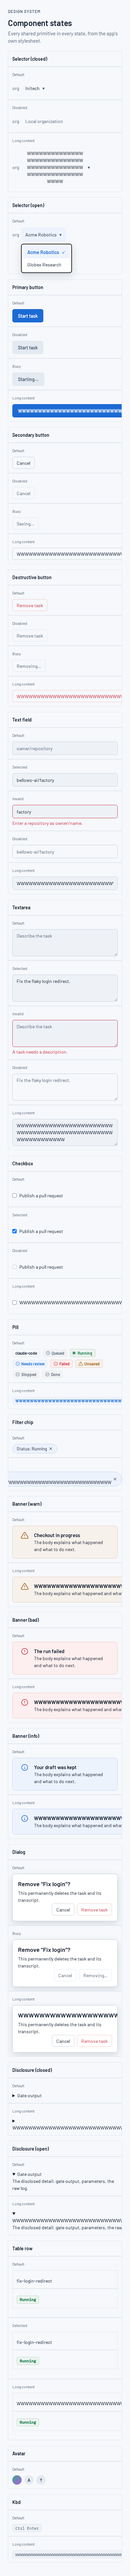
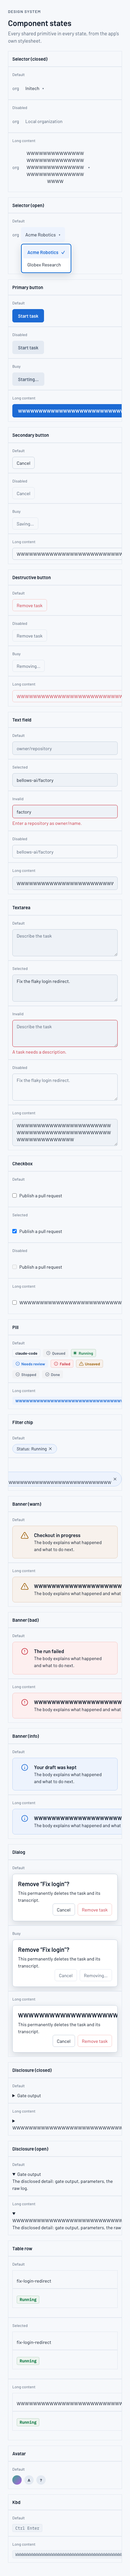
Give every button a held-down skin (#350)
Issue 265 asks for two things: a pointer cursor, and a button that looks
different while it is being clicked. The cursor was already there, and so
were the busy and disabled states — a primary swaps its label to
"Starting…" and dims until the work returns. What no button had was a
press: hover, focus and disabled were the whole vocabulary, so between
mousedown and the first repaint of the result nothing acknowledged the
click.

Each button now takes a skin one step past its hover, in the same
direction, and instantly — the stylesheet carries no transitions and this
adds none. `--accent-pressed` and `--surface-pressed` are the two new
tokens; both are mixed toward `--ink`, which is the direction that raises
the contrast of the text they carry rather than lowering it.

The destructive button is the exception: it moves its EDGE to full
`--lamp-stop` and keeps the hover wash, because a stronger red fill puts
its own red text under 4.5:1 — 4.38 measured at 18% against the hover's
4.68 at 14%.

polish.spec measures both new pairs (9.2:1 and 6.0:1 dark, 8.7:1 and
8.7:1 light), and the specimen shoots each button held down under a real
pointer, the way it already shoots hover and focus. The four committed
sheets are regenerated.

diff --git a/e2e/specimen.spec.ts b/e2e/specimen.spec.ts
@@ -28,13 +28,33 @@ interface Target {
     hover: (cell: Locator) => Locator;
     /** Whether Tab reaches it — a table row is hovered, never focused. */
     focusable: boolean;
+    /** Whether holding the pointer down on it has a skin of its own (issue 265). */
+    pressable?: boolean;
 }
 
 const TARGETS: Target[] = [
     { name: 'selector', row: 'Selector (closed)', hover: (c) => c.getByRole('button'), focusable: true },
-    { name: 'primary-button', row: 'Primary button', hover: (c) => c.getByRole('button'), focusable: true },
-    { name: 'secondary-button', row: 'Secondary button', hover: (c) => c.getByRole('button'), focusable: true },
-    { name: 'destructive-button', row: 'Destructive button', hover: (c) => c.getByRole('button'), focusable: true },
+    {
+        name: 'primary-button',
+        row: 'Primary button',
+        hover: (c) => c.getByRole('button'),
+        focusable: true,
+        pressable: true,
+    },
+    {
+        name: 'secondary-button',
+        row: 'Secondary button',
+        hover: (c) => c.getByRole('button'),
+        focusable: true,
+        pressable: true,
+    },
+    {
+        name: 'destructive-button',
+        row: 'Destructive button',
+        hover: (c) => c.getByRole('button'),
+        focusable: true,
+        pressable: true,
+    },
     { name: 'field', row: 'Text field', hover: (c) => c.getByRole('textbox'), focusable: true },
     { name: 'textarea', row: 'Textarea', hover: (c) => c.getByRole('textbox'), focusable: true },
     { name: 'checkbox', row: 'Checkbox', hover: (c) => c.getByRole('checkbox'), focusable: true },
@@ -81,6 +101,15 @@ test.describe('component-state specimen', () => {
                     await home.screenshot({
                         path: `${STATES_OUT}/${target.name}-hover-${theme}-${viewport.width}.png`,
                     });
+                    // Held down (issue 265), with the button actually under the pointer: :active is
+                    // the browser's own, never a class, so the shot has to keep the press open.
+                    if (target.pressable === true) {
+                        await page.mouse.down();
+                        await home.screenshot({
+                            path: `${STATES_OUT}/${target.name}-pressed-${theme}-${viewport.width}.png`,
+                        });
+                        await page.mouse.up();
+                    }
                 }
                 await page.mouse.move(0, 0);
 

diff --git a/web/src/styles/tokens.css b/web/src/styles/tokens.css
@@ -43,6 +43,10 @@
     --bad-wash: color-mix(in oklab, var(--lamp-stop) 14%, transparent);
     --done-wash: color-mix(in oklab, var(--lamp-done) 10%, transparent);
     --accent-hover: color-mix(in oklab, var(--accent) 88%, var(--ink));
+    /* Held down (issue 265): one step past hover, in the same direction, so a press reads as a
+       press and not as a second hover. No transition carries it — the change is instant. */
+    --accent-pressed: color-mix(in oklab, var(--accent) 60%, var(--ink));
+    --surface-pressed: color-mix(in oklab, var(--surface-strong) 76%, var(--ink));
     --accent-border: color-mix(in oklab, var(--accent) 30%, var(--surface-raised));
     --ok-border: color-mix(in oklab, var(--lamp-run) 30%, var(--surface-raised));
     --warn-border: color-mix(in oklab, var(--lamp-wait) 30%, var(--surface-raised));
@@ -96,6 +100,10 @@
     --bad-wash: color-mix(in oklab, var(--lamp-stop) 8%, var(--surface-raised));
     --done-wash: color-mix(in oklab, var(--lamp-done) 8%, var(--surface-raised));
     --accent-hover: color-mix(in oklab, var(--accent) 88%, var(--ink));
+    /* Held down (issue 265): one step past hover, in the same direction, so a press reads as a
+       press and not as a second hover. No transition carries it — the change is instant. */
+    --accent-pressed: color-mix(in oklab, var(--accent) 60%, var(--ink));
+    --surface-pressed: color-mix(in oklab, var(--surface-strong) 76%, var(--ink));
     --accent-border: color-mix(in oklab, var(--accent) 30%, var(--surface-raised));
     --ok-border: color-mix(in oklab, var(--lamp-run) 30%, var(--surface-raised));
     --warn-border: color-mix(in oklab, var(--lamp-wait) 30%, var(--surface-raised));

diff --git a/web/src/styles/primitives.css b/web/src/styles/primitives.css
@@ -158,6 +158,13 @@
         background: var(--surface-strong);
     }
 
+    /* Held down (issue 265): a press must look different from a hover, or a member cannot tell a
+       click landed until the work finishes. One step past the hover fill, instant, and outranked
+       by `:disabled` below so a dead button stays dead under the pointer. */
+    button:active:not(:disabled) {
+        background: var(--surface-pressed);
+    }
+
     button:disabled {
         background: transparent;
         color: var(--ink-muted);
@@ -181,6 +188,11 @@
         border-color: var(--accent-hover);
     }
 
+    button.primary:active:not(:disabled) {
+        background: var(--accent-pressed);
+        border-color: var(--accent-pressed);
+    }
+
     button.primary:disabled {
         background: var(--surface-strong);
         border-color: var(--surface-strong);
@@ -196,6 +208,14 @@
 
     button.danger:hover:not(:disabled) {
         background: var(--bad-wash);
+    }
+
+    /* The destructive press moves the EDGE, not the fill: a stronger wash under `--lamp-stop` text
+       drops below 4.5:1 (measured 4.38 at 18% against 4.68 at the hover's 14%), so the frame goes
+       to full strength instead and the wash stays exactly where contrast holds. */
+    button.danger:active:not(:disabled) {
+        background: var(--bad-wash);
+        border-color: var(--lamp-stop);
     }
 
     button.danger:disabled {

diff --git a/e2e/polish.spec.ts b/e2e/polish.spec.ts
@@ -69,8 +69,10 @@ const COMPOSITE_PAIRS: readonly Composite[] = [
     ]),
     ['primary button', '--ink-inverse', ['--accent']],
     ['primary button hover', '--ink-inverse', ['--accent-hover']],
+    ['primary button pressed', '--ink-inverse', ['--accent-pressed']],
     ['primary button disabled', '--ink-muted', ['--surface-strong']],
     ['secondary button hover', '--ink', ['--surface-strong']],
+    ['secondary button pressed', '--ink', ['--surface-pressed']],
     ['danger button hover', '--lamp-stop', ['--surface', '--bad-wash']],
     ['avatar initials', '--ink', ['--surface-strong']],
 ];

diff --git a/docs/design-system.md b/docs/design-system.md
@@ -122,6 +122,8 @@ block's tokens, and where a pair's contrast demands it the two blocks deliberate
 | `--done-wash` | The `pill-done` fill | dark: lamp-done 10% over transparent (16% measured 4.27:1, a fail) · light: lamp-done 8% over surface-raised |
 | `--accent-wash` | `pill-accent`, `inbox-chip`, `banner-info`; a selector trigger's hover/focus/open highlight and an option row's hover/focus fill (issue 224) | dark: accent 16% over transparent · light: accent 8% over surface-raised (was 12% over transparent; 10% measured 4.50:1) |
 | `--accent-hover` | The primary button's hover fill | accent 88% over ink |
+| `--accent-pressed` | The primary button held down | accent 60% over ink |
+| `--surface-pressed` | Any other button held down | surface-strong 76% over ink |
 | `--accent-border` | The `inbox-chip` and `banner-info` edge (decorative) | accent 30% over surface-raised |
 | `--on-warn` | Foreground on a lamp-wait fill | dark: black 88% over lamp-wait · light: `var(--ink-inverse)` — the light theme's deep amber cannot carry a darker ink at AA |
 | `--on-bad` | Foreground on a lamp-stop fill | dark: black 88% over lamp-stop (the dark theme's red is bright enough to wash light text below AA) · light: white 92% over lamp-stop |
@@ -377,7 +379,7 @@ and switches immediately — no reload, no refetch, no transition, no sign-out c
 
 | Primitive | Classes | Use for |
 | --- | --- | --- |
-| Button | `button` (element), `primary`, `danger` | The secondary button is every button's default: transparent, a `--line-strong` outline, `--ink` text, `--surface-strong` on hover; disabled mutes the text and drops to the `--line` edge. `primary` is the page's one main action — accent fill, `--ink-inverse` 600-weight text, 40px tall, `--accent-hover` on hover; disabled it turns `--surface-strong` with muted text and a not-allowed cursor, and a busy primary swaps its label ("Starting…") and disables. `danger` is the destructive variant: `--lamp-stop` text on a `--bad-border` outline, `--bad-wash` on hover |
+| Button | `button` (element), `primary`, `danger` | The secondary button is every button's default: transparent, a `--line-strong` outline, `--ink` text, `--surface-strong` on hover; disabled mutes the text and drops to the `--line` edge. `primary` is the page's one main action — accent fill, `--ink-inverse` 600-weight text, 40px tall, `--accent-hover` on hover; disabled it turns `--surface-strong` with muted text and a not-allowed cursor, and a busy primary swaps its label ("Starting…") and disables. `danger` is the destructive variant: `--lamp-stop` text on a `--bad-border` outline, `--bad-wash` on hover. **Held down** (issue 265) every button takes a skin of its own, one step past its hover and instant, so a press is visible before the work finishes: `--surface-pressed` by default, `--accent-pressed` for `primary`. `danger` moves its EDGE to full `--lamp-stop` and keeps the hover wash, because a stronger red fill drops its own text under 4.5:1 |
 | Field | `field` | The one text-field skin, for inputs, selects and textareas alike: `--surface-sunken` fill, a `--line-strong` edge (`--ink-muted` on hover, `--accent` while focused, the global ring on top), 6px radius, 40px tall, muted placeholder; disabled drops to `--surface` with muted text, and `aria-invalid="true"` turns the edge `--lamp-stop` (its message sits below, linked by `aria-describedby`). The composer textarea, the inbox filters, the repository search and the executor picker's fields wear it; their own classes only size them |
 | Popover | `select-trigger`, `popover`, `popover-option`, `popover-separator` | The shared quiet-selector language above — user menu, org, composer and dashboard listboxes (Range, Scope); `data-focus`/`data-selected` state the options; dialogs sit at z-index 40, popovers at 30 |
 | Org | `org-selector`, `org-select`, `select-trigger` | The organization switcher in the app bar, or in the navigation drawer at ≤900px (Headless UI Listbox) |
